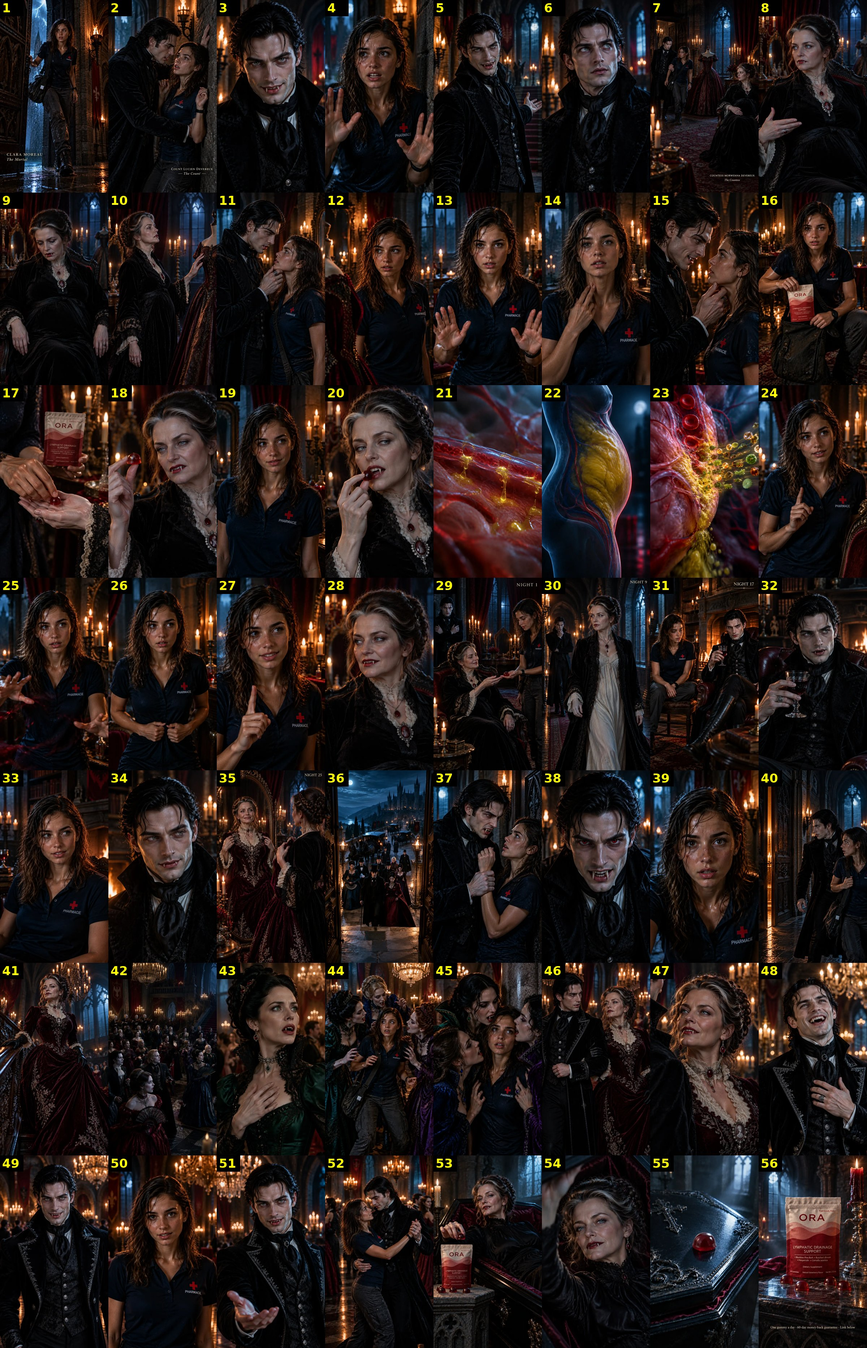
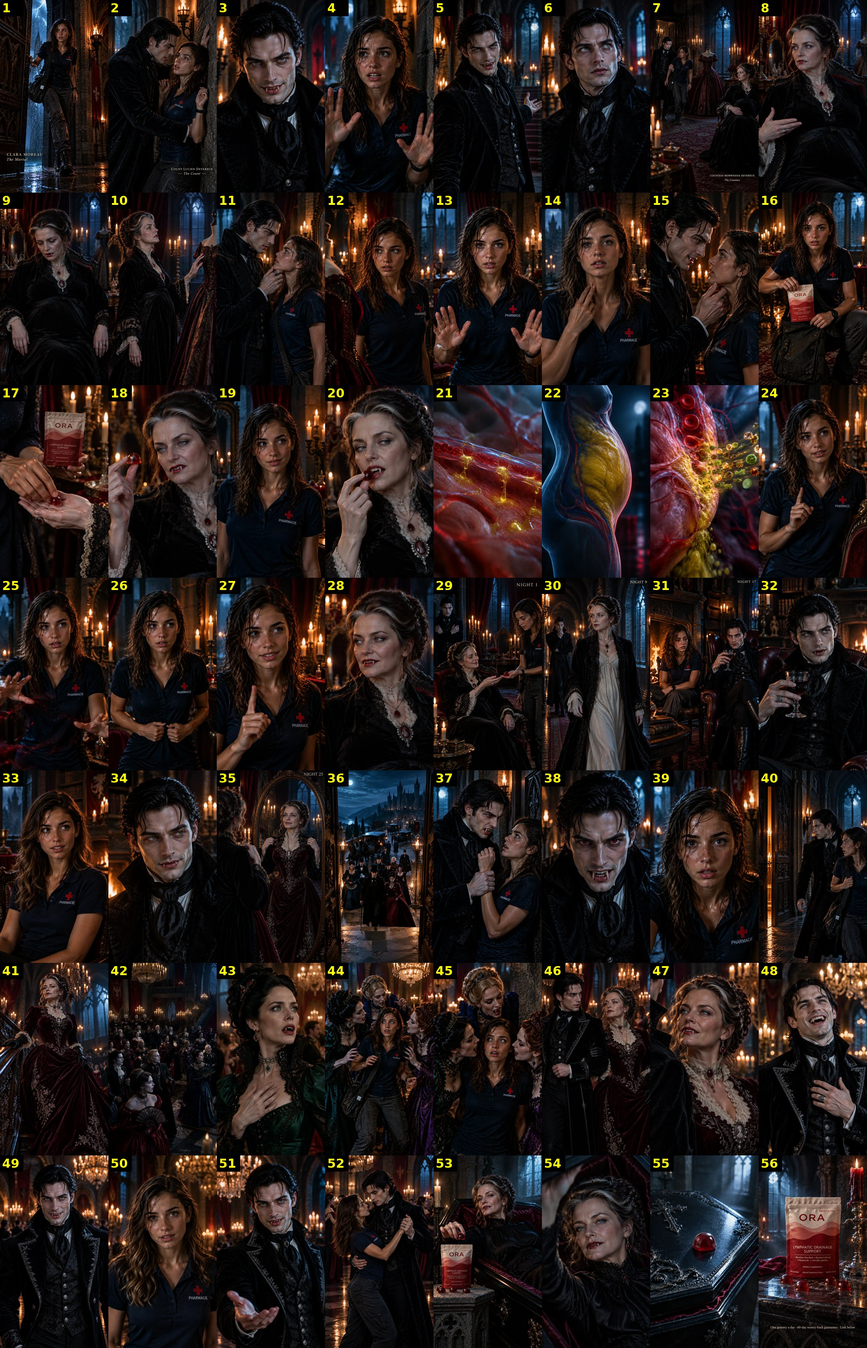
ORA vampire drama: redo frames 31, 33, 35, 45, 50, 52
Claude-Session: https://claude.ai/code/session_01B91YnQnevLKqPhwBUBVUWL

diff --git a/projects/ora-vampire-drama/shots.md b/projects/ora-vampire-drama/shots.md
@@ -32,11 +32,11 @@
 | 28 | b4ed901a-1d9d-4b16-b331-48f0caeb2f42 |
 | 29 | 82c4c9f6-5457-4112-a590-dca0f482285a |
 | 30 | 55954f57-8bf7-4b91-b197-5e89b0c82782 |
-| 31 | 1e995f06-8146-40c5-884d-40e676ab6c73 |
+| 31 | 91abfbe6-7857-433e-bf49-9272c2868bab (redo: dry hair) |
 | 32 | ab9a0073-1a04-455b-9f19-001cffe4a911 |
-| 33 | b47f85a9-2f52-44e0-afbd-04cca1b453f7 |
+| 33 | b2edc1da-ee29-4738-b4ba-b23a665ada94 (redo: dry hair) |
 | 34 | 438532ae-c8d5-4dc5-bc46-6d9222217187 |
-| 35 | 2134894a-a205-4a6f-b1fc-fd7ab2b9d637 |
+| 35 | 7ead4f71-b866-49ed-990f-b781c7a6ae93 (redo: holds gown in mirror) |
 | 36 | 1d86a590-347c-4b10-b51d-972e7dda8257 |
 | 37 | 33e9d58c-1495-4bdb-ae3b-8e0b2b422386 |
 | 38 | d18e0a09-b7b5-49cd-a475-c025590817aa |
@@ -46,14 +46,14 @@
 | 42 | 007fd353-02bc-4dd0-9af4-2a2c38c90ee2 |
 | 43 | 826cd1b1-7679-44f6-97e0-838be1538b8a |
 | 44 | 9c61e8b7-087f-40ac-a874-d88ddaac5245 |
-| 45 | f631cd56-a0e0-49a7-a356-27a179b07104 |
+| 45 | 43d037a0-b871-4db8-8004-edb59a78b71a (redo: same ladies as 44) |
 | 46 | 7c26ea7c-755b-460d-945a-078509122302 |
 | 47 | 684ef8a6-57b6-42c4-9a1a-ed4e8b646d29 |
 | 48 | 0a889a60-dea5-43ca-9302-02c44a7dab70 |
 | 49 | 70fd6bdc-43b7-4618-8a66-5c9c57851300 |
-| 50 | 6254544c-234c-4757-94fa-bfcb355e14ed |
+| 50 | 46994e86-3e16-46cd-8677-e3cfd729479a (redo: dry hair) |
 | 51 | e26804de-631a-4bc8-a3a1-07b3ee3e5c30 |
-| 52 | 0415d4cf-8438-4eac-b756-a17797e746ce |
+| 52 | 97430cd2-20ad-4a90-8d40-498e04d8d985 (redo: dry hair) |
 | 53 | f7f134a7-7477-477a-addd-e61e29d8135b |
 | 54 | 4b530a98-18e7-47fc-90ad-af633a39e359 |
 | 55 | f3adcb51-d84c-4c94-9f17-7368d73b4f68 |
